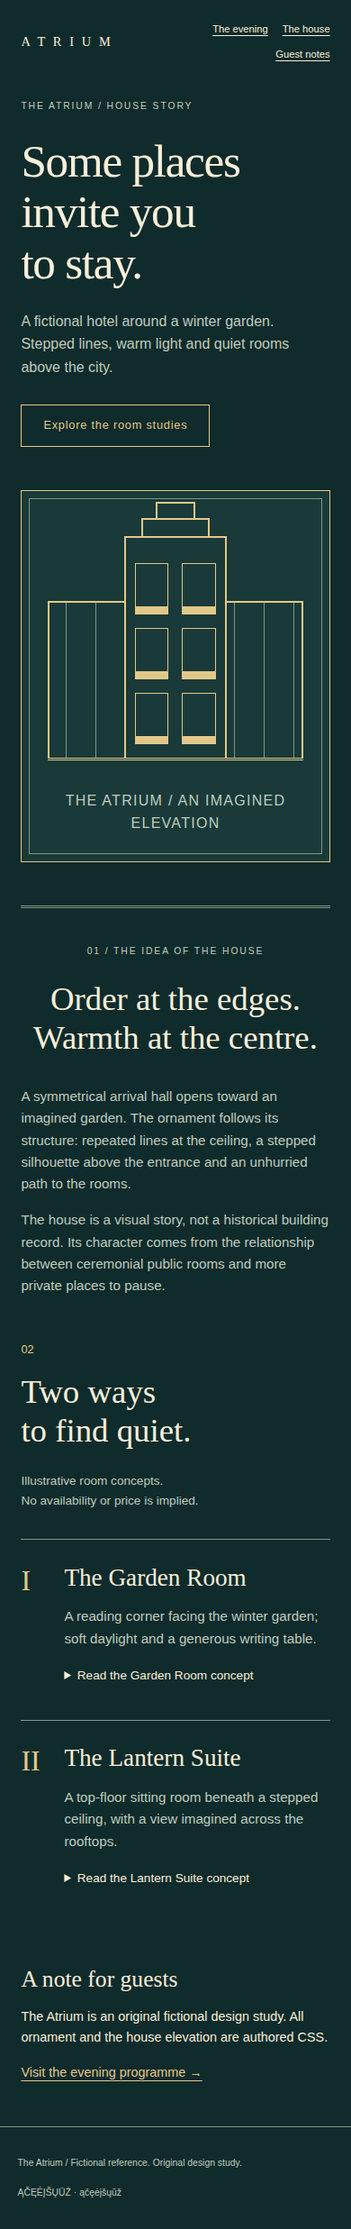
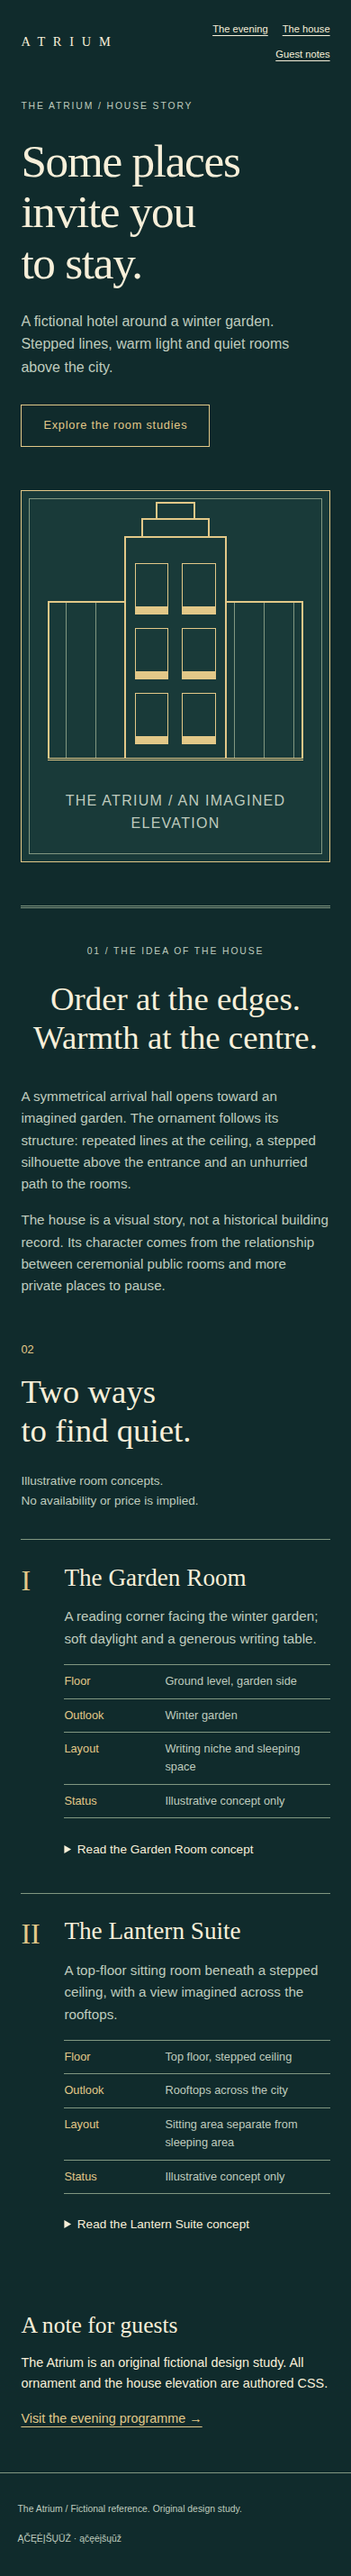
[S47] Pertvarka: Art Deco (#94)
* feat(art-deco): make fan navigation functional and add room facts

- Turn the decorative fan into a three-link nav to the timed movements.
- Give the house note an asymmetric two-column layout.
- Add a fact list (floor, outlook, layout, status) to each room record.
- Update style.md and layouts.json to match.

Claude-Session: https://claude.ai/code/session_01UNVqEgRscSKB9PdVUupPsp

* chore: regenerate canonical previews for art-deco

* docs: add S47 evidence for Art Deco redesign

Records canonical previews run 39825156018, the four-PNG rubric review (12/12) and the limits of this review.

Claude-Session: https://claude.ai/code/session_01UNVqEgRscSKB9PdVUupPsp

---------

diff --git a/styles/art-deco/reference/style.css b/styles/art-deco/reference/style.css
@@ -1,1 +1,1 @@
-*{box-sizing:border-box}html{scroll-behavior:smooth}body{margin:0;background:var(--color-background);color:var(--color-text);font:1rem/1.6 var(--font-body)}a{color:inherit;text-underline-offset:.25em}a:hover{color:var(--color-accent)}button,input,select{font:inherit}button,summary{cursor:pointer}button{color:var(--color-on-accent);background:var(--color-accent);border:1px solid var(--color-border);padding:.6rem 1rem}a,button,summary,input,select{touch-action:manipulation}:focus-visible{outline:3px solid var(--color-focus);outline-offset:4px}.skip{position:absolute;top:0;left:0;transform:translateY(-200%);padding:1rem;background:var(--color-background);z-index:99}.skip:focus{transform:none}h1,h2,h3,p,figure{margin:0}h1,h2,h3{font-family:var(--font-display);line-height:1.1;font-weight:400}img,svg{display:block;max-width:100%;height:auto}header,main,footer{min-width:0}nav{display:flex;gap:1.5rem;flex-wrap:wrap}details p{padding:1rem 0;max-width:65ch}summary{padding:.65rem 0}footer{display:flex;justify-content:space-between;gap:1rem;flex-wrap:wrap;padding:2rem 5vw;font-size:.75rem;color:var(--color-muted);border-top:1px solid var(--color-border)}@media(prefers-reduced-motion:reduce){html{scroll-behavior:auto}*,*::before,*::after{animation:none!important;transition:none!important}}header{max-width:1320px;margin:auto;display:grid;grid-template-columns:1fr 2fr 1fr;align-items:center;gap:2rem;padding:2rem 4vw;font-size:.7rem}.brand{font:1rem/1.2 var(--font-display);letter-spacing:.18em;text-decoration:none}header nav{justify-content:center;gap:2rem}header>span{text-align:right;font-size:.6rem;color:var(--color-muted)}main{max-width:1440px;margin:auto}.eyebrow{font-size:.65rem;letter-spacing:.18em;color:var(--color-muted)}h1{letter-spacing:.04em}h2{font-size:2.7rem;line-height:1.15}.invitation{position:relative;border:1px solid var(--color-accent);outline:1px solid var(--color-border);outline-offset:-12px;margin:1rem 8vw 4rem;padding:2.5rem 2rem;text-align:center}.fan{width:45%;height:95px;border-radius:500px 500px 0 0;background:repeating-conic-gradient(from -90deg at 50% 100%,var(--color-border) 0deg 1deg,transparent 1deg 14deg);border-bottom:1px solid var(--color-accent);margin:0 auto 2rem}.invitation h1{font-size:clamp(3rem,6.2vw,5.8rem);line-height:1.05;margin:1.5rem 0}.invitation-copy{font-family:var(--font-display);font-size:1.25rem;line-height:1.5}.diamond{width:12px;height:12px;border:1px solid var(--color-accent);transform:rotate(45deg);margin:2rem auto}.date{font-size:.75rem;letter-spacing:.1em}.deco-link{display:inline-block;margin:1.8rem 0 1rem;border:1px solid var(--color-accent);padding:.75rem 2.5rem;color:var(--color-accent);font-size:.8rem;letter-spacing:.06em;text-decoration:none}.deco-link:hover{text-decoration:underline}.small-note{font-size:.7rem;color:var(--color-muted);margin:.7rem 0}.programme{display:grid;grid-template-columns:1fr 1.5fr;gap:6vw;margin:0 10vw 5rem}.section-heading>span{display:block;font-size:.8rem;color:var(--color-accent);margin-bottom:1rem}.section-heading h2{font-size:2.6rem}.section-heading>p{font-size:.85rem;color:var(--color-muted);margin-top:1.5rem}.programme ol{list-style:none;padding:0;margin:0}.programme li{display:grid;grid-template-columns:70px 1fr;gap:1rem;border-top:1px solid var(--color-border);padding:1.5rem 0}.programme time{font-size:.8rem;color:var(--color-accent)}.programme h3{font-size:1.8rem;margin-bottom:.8rem}.programme li p{font-size:.95rem;color:var(--color-muted)}.house-note{text-align:center;margin:0 8vw 4rem;padding:3rem;border-top:3px double var(--color-border);border-bottom:3px double var(--color-border)}.house-note h2{font-size:3.3rem;margin:1.5rem 0}.house-note>p:not(.eyebrow){max-width:52ch;margin:auto;color:var(--color-muted)}.house-note a{display:inline-block;margin-top:1.5rem;font-size:.85rem;color:var(--color-accent)}.guest-notes{margin:0 8vw 3rem;display:grid;grid-template-columns:1fr 2fr;gap:3rem}.guest-notes h2{font-size:1.6rem}.guest-notes details,.guest-notes div{font-size:.9rem}.guest-notes a{display:inline-block;margin-top:1rem;color:var(--color-accent)}.house-intro{display:grid;grid-template-columns:1fr 1fr;gap:6vw;margin:2rem 8vw 5rem;align-items:center}.house-intro h1{font-size:clamp(3rem,4.7vw,4.8rem);letter-spacing:-.025em;margin:1.5rem 0}.house-intro>div>p:not(.eyebrow){font-size:1rem;max-width:36ch;color:var(--color-muted)}.house-drawing{border:1px solid var(--color-accent);outline:1px solid var(--color-border);outline-offset:-10px;min-height:500px;padding:2rem;display:flex;align-items:center;justify-content:flex-end;flex-direction:column;background:var(--color-surface)}.building{position:relative;width:100%;height:330px;border-bottom:3px double var(--color-accent)}.tower{position:absolute;bottom:0;left:30%;width:40%;height:92%;border:2px solid var(--color-accent);border-bottom:0;display:grid;grid-template-columns:1fr 1fr;gap:20px;padding:35px 18px 20px;z-index:1;background:var(--color-surface)}.tower::before{content:'';position:absolute;bottom:100%;height:22px;left:15%;width:70%;border:2px solid var(--color-accent);border-bottom:0;box-sizing:border-box}.tower::after{content:'';position:absolute;bottom:calc(100% + 22px);height:18px;left:30%;width:40%;border:2px solid var(--color-accent);border-bottom:0;box-sizing:border-box}.tower span{border:1px solid var(--color-accent);box-shadow:inset 0 -8px 0 var(--color-accent)}.wing{position:absolute;bottom:0;width:34%;height:65%;border:2px solid var(--color-accent);border-bottom:0;background:repeating-linear-gradient(90deg,transparent 0 18px,var(--color-border) 18px 19px,transparent 19px 33px)}.left{left:0}.right{right:0}.house-drawing>p{font-size:.6rem;letter-spacing:.08em;text-align:center;color:var(--color-muted);margin-top:2rem}.history{margin:0 8vw 5rem;text-align:center;border-top:3px double var(--color-border);padding-top:2.5rem}.history h2{font-size:3rem;margin:1.5rem 0 2rem}.history>div{display:grid;grid-template-columns:1fr 1fr;gap:3rem;text-align:left;max-width:900px;margin:auto}.history div p{font-size:.95rem;color:var(--color-muted)}.rooms{margin:0 8vw 4rem;display:grid;grid-template-columns:1fr 1.4fr;gap:1.5rem 5vw}.rooms .section-heading{grid-column:1;grid-row:1/3}.rooms article{display:grid;grid-template-columns:3rem 1fr;gap:1.5rem;border-top:1px solid var(--color-border);padding:1.7rem 0}.room-number{font:2.3rem/1.1 var(--font-display);color:var(--color-accent)}.rooms h3{font-size:2rem;margin-bottom:1rem}.rooms article p{font-size:.95rem;color:var(--color-muted)}.rooms summary{font-size:.85rem;margin-top:.5rem}footer{font-size:.65rem}@media(max-width:1000px){header{grid-template-columns:1fr 2fr}header>span{display:none}.invitation{margin-left:5vw;margin-right:5vw}.programme{margin-left:7vw;margin-right:7vw;gap:3rem}.house-intro{gap:3vw;margin-left:5vw;margin-right:5vw}.house-drawing{padding:1.5rem;min-height:450px}.building{height:290px}.tower{padding:30px 12px 16px;gap:15px}.rooms{gap:3vw}.rooms article{gap:1rem}}@media(max-width:700px){header{display:flex;justify-content:space-between;padding:1.5rem 6vw;gap:1rem}.brand{font-size:.9rem}header nav{font-size:.7rem;gap:.65rem 1rem;max-width:24ch;justify-content:flex-end}.invitation{padding:2rem 1.2rem;margin-bottom:3rem}.fan{width:65%;height:70px;margin-bottom:1.7rem}.invitation h1{font-size:3rem}.invitation-copy{font-size:1.1rem}.date{font-size:.65rem}.deco-link{padding:.75rem 1.5rem}.programme{display:block;margin:0 7vw 3rem}.section-heading h2{font-size:2.3rem}.programme ol{margin-top:2rem}.programme li{grid-template-columns:50px 1fr;gap:.8rem}.programme h3{font-size:1.6rem}.house-note{margin:0 6vw 3rem;padding:2rem .5rem}.house-note h2{font-size:2.5rem}.guest-notes{display:block;margin:0 6vw 3rem}.guest-notes h2{margin-bottom:1rem}.house-intro{display:block;margin:1rem 6vw 3rem}.house-intro h1{font-size:3.2rem}.house-intro>div>p:not(.eyebrow){max-width:none}.house-drawing{margin-top:2rem;min-height:400px;padding:1.8rem}.building{height:270px}.tower{padding:28px 10px 15px;gap:15px}.history{margin:0 6vw 3rem}.history h2{font-size:2.3rem}.history>div{display:block}.history div p+p{margin-top:1rem}.rooms{display:block;margin:0 6vw 3rem}.rooms .section-heading{margin-bottom:2rem}.rooms h3{font-size:1.7rem}.rooms article{grid-template-columns:2rem 1fr}.room-number{font-size:2rem}}
+*{box-sizing:border-box}html{scroll-behavior:smooth}body{margin:0;background:var(--color-background);color:var(--color-text);font:1rem/1.6 var(--font-body)}a{color:inherit;text-underline-offset:.25em}a:hover{color:var(--color-accent)}button,input,select{font:inherit}button,summary{cursor:pointer}button{color:var(--color-on-accent);background:var(--color-accent);border:1px solid var(--color-border);padding:.6rem 1rem}a,button,summary,input,select{touch-action:manipulation}:focus-visible{outline:3px solid var(--color-focus);outline-offset:4px}.skip{position:absolute;top:0;left:0;transform:translateY(-200%);padding:1rem;background:var(--color-background);z-index:99}.skip:focus{transform:none}h1,h2,h3,p,figure{margin:0}h1,h2,h3{font-family:var(--font-display);line-height:1.1;font-weight:400}img,svg{display:block;max-width:100%;height:auto}header,main,footer{min-width:0}nav{display:flex;gap:1.5rem;flex-wrap:wrap}details p{padding:1rem 0;max-width:65ch}summary{padding:.65rem 0}footer{display:flex;justify-content:space-between;gap:1rem;flex-wrap:wrap;padding:2rem 5vw;font-size:.75rem;color:var(--color-muted);border-top:1px solid var(--color-border)}@media(prefers-reduced-motion:reduce){html{scroll-behavior:auto}*,*::before,*::after{animation:none!important;transition:none!important}}header{max-width:1320px;margin:auto;display:grid;grid-template-columns:1fr 2fr 1fr;align-items:center;gap:2rem;padding:2rem 4vw;font-size:.7rem}.brand{font:1rem/1.2 var(--font-display);letter-spacing:.18em;text-decoration:none}header nav{justify-content:center;gap:2rem}header>span{text-align:right;font-size:.6rem;color:var(--color-muted)}main{max-width:1440px;margin:auto}.eyebrow{font-size:.65rem;letter-spacing:.18em;color:var(--color-muted)}h1{letter-spacing:.04em}h2{font-size:2.7rem;line-height:1.15}.invitation{position:relative;border:1px solid var(--color-accent);outline:1px solid var(--color-border);outline-offset:-12px;margin:1rem 8vw 4rem;padding:2.5rem 2rem;text-align:center}.fan{width:45%;height:95px;display:grid;grid-template-columns:repeat(3,1fr);margin:0 auto 2rem;border-bottom:1px solid var(--color-accent);background:repeating-conic-gradient(from -90deg at 50% 100%,var(--color-border) 0deg 1deg,transparent 1deg 14deg);border-radius:500px 500px 0 0}.fan a{display:flex;flex-direction:column;align-items:center;justify-content:flex-end;gap:.2rem;padding-bottom:.6rem;color:var(--color-text);text-decoration:none;font-size:.6rem;letter-spacing:.1em;background:var(--color-background)}.fan a+a{border-left:1px solid var(--color-border)}.fan b{font-weight:400;font-size:.8rem;color:var(--color-accent)}.fan a:hover{color:var(--color-accent)}.invitation h1{font-size:clamp(3rem,6.2vw,5.8rem);line-height:1.05;margin:1.5rem 0}.invitation-copy{font-family:var(--font-display);font-size:1.25rem;line-height:1.5}.diamond{width:12px;height:12px;border:1px solid var(--color-accent);transform:rotate(45deg);margin:2rem auto}.date{font-size:.75rem;letter-spacing:.1em}.deco-link{display:inline-block;margin:1.8rem 0 1rem;border:1px solid var(--color-accent);padding:.75rem 2.5rem;color:var(--color-accent);font-size:.8rem;letter-spacing:.06em;text-decoration:none}.deco-link:hover{text-decoration:underline}.small-note{font-size:.7rem;color:var(--color-muted);margin:.7rem 0}.programme{display:grid;grid-template-columns:1fr 1.5fr;gap:6vw;margin:0 10vw 5rem}.section-heading>span{display:block;font-size:.8rem;color:var(--color-accent);margin-bottom:1rem}.section-heading h2{font-size:2.6rem}.section-heading>p{font-size:.85rem;color:var(--color-muted);margin-top:1.5rem}.programme ol{list-style:none;padding:0;margin:0}.programme li{display:grid;grid-template-columns:70px 1fr;gap:1rem;border-top:1px solid var(--color-border);padding:1.5rem 0}.programme time{font-size:.8rem;color:var(--color-accent)}.programme h3{font-size:1.8rem;margin-bottom:.8rem}.programme li p{font-size:.95rem;color:var(--color-muted)}.house-note{display:grid;grid-template-columns:1fr 1.4fr;gap:1rem 4rem;margin:0 8vw 4rem 18vw;padding:3rem 0;border-top:3px double var(--color-border)}.house-note>.eyebrow{grid-column:1;grid-row:1}.house-note h2{grid-column:1;grid-row:2;font-size:3.3rem;margin:1rem 0}.house-note>p:not(.eyebrow){grid-column:2;grid-row:1/3;align-self:center;max-width:52ch;color:var(--color-muted)}.house-note a{grid-column:2;grid-row:3;justify-self:start;display:inline-block;margin-top:1rem;font-size:.85rem;color:var(--color-accent)}.guest-notes{margin:0 8vw 3rem;display:grid;grid-template-columns:1fr 2fr;gap:3rem}.guest-notes h2{font-size:1.6rem}.guest-notes details,.guest-notes div{font-size:.9rem}.guest-notes a{display:inline-block;margin-top:1rem;color:var(--color-accent)}.house-intro{display:grid;grid-template-columns:1fr 1fr;gap:6vw;margin:2rem 8vw 5rem;align-items:center}.house-intro h1{font-size:clamp(3rem,4.7vw,4.8rem);letter-spacing:-.025em;margin:1.5rem 0}.house-intro>div>p:not(.eyebrow){font-size:1rem;max-width:36ch;color:var(--color-muted)}.house-drawing{border:1px solid var(--color-accent);outline:1px solid var(--color-border);outline-offset:-10px;min-height:500px;padding:2rem;display:flex;align-items:center;justify-content:flex-end;flex-direction:column;background:var(--color-surface)}.building{position:relative;width:100%;height:330px;border-bottom:3px double var(--color-accent)}.tower{position:absolute;bottom:0;left:30%;width:40%;height:92%;border:2px solid var(--color-accent);border-bottom:0;display:grid;grid-template-columns:1fr 1fr;gap:20px;padding:35px 18px 20px;z-index:1;background:var(--color-surface)}.tower::before{content:'';position:absolute;bottom:100%;height:22px;left:15%;width:70%;border:2px solid var(--color-accent);border-bottom:0;box-sizing:border-box}.tower::after{content:'';position:absolute;bottom:calc(100% + 22px);height:18px;left:30%;width:40%;border:2px solid var(--color-accent);border-bottom:0;box-sizing:border-box}.tower span{border:1px solid var(--color-accent);box-shadow:inset 0 -8px 0 var(--color-accent)}.wing{position:absolute;bottom:0;width:34%;height:65%;border:2px solid var(--color-accent);border-bottom:0;background:repeating-linear-gradient(90deg,transparent 0 18px,var(--color-border) 18px 19px,transparent 19px 33px)}.left{left:0}.right{right:0}.house-drawing>p{font-size:.6rem;letter-spacing:.08em;text-align:center;color:var(--color-muted);margin-top:2rem}.history{margin:0 8vw 5rem;text-align:center;border-top:3px double var(--color-border);padding-top:2.5rem}.history h2{font-size:3rem;margin:1.5rem 0 2rem}.history>div{display:grid;grid-template-columns:1fr 1fr;gap:3rem;text-align:left;max-width:900px;margin:auto}.history div p{font-size:.95rem;color:var(--color-muted)}.rooms{margin:0 8vw 4rem;display:grid;grid-template-columns:1fr 1.4fr;gap:1.5rem 5vw}.rooms .section-heading{grid-column:1;grid-row:1/3}.rooms article{display:grid;grid-template-columns:3rem 1fr;gap:1.5rem;border-top:1px solid var(--color-border);padding:1.7rem 0}.room-number{font:2.3rem/1.1 var(--font-display);color:var(--color-accent)}.rooms h3{font-size:2rem;margin-bottom:1rem}.rooms article p{font-size:.95rem;color:var(--color-muted)}.rooms summary{font-size:.85rem;margin-top:.5rem}.room-facts{margin-top:1rem;font-size:.8rem;border-top:1px solid var(--color-border)}.room-facts div{display:grid;grid-template-columns:6rem 1fr;gap:1rem;padding:.5rem 0;border-bottom:1px solid var(--color-border)}.room-facts dt{color:var(--color-accent)}.room-facts dd{margin:0;color:var(--color-muted)}footer{font-size:.65rem}@media(max-width:1000px){header{grid-template-columns:1fr 2fr}header>span{display:none}.invitation{margin-left:5vw;margin-right:5vw}.programme{margin-left:7vw;margin-right:7vw;gap:3rem}.house-intro{gap:3vw;margin-left:5vw;margin-right:5vw}.house-drawing{padding:1.5rem;min-height:450px}.building{height:290px}.tower{padding:30px 12px 16px;gap:15px}.rooms{gap:3vw}.rooms article{gap:1rem}}@media(max-width:700px){header{display:flex;justify-content:space-between;padding:1.5rem 6vw;gap:1rem}.brand{font-size:.9rem}header nav{font-size:.7rem;gap:.65rem 1rem;max-width:24ch;justify-content:flex-end}.invitation{padding:2rem 1.2rem;margin-bottom:3rem}.fan{width:65%;height:70px;margin-bottom:1.7rem}.invitation h1{font-size:3rem}.invitation-copy{font-size:1.1rem}.date{font-size:.65rem}.deco-link{padding:.75rem 1.5rem}.programme{display:block;margin:0 7vw 3rem}.section-heading h2{font-size:2.3rem}.programme ol{margin-top:2rem}.programme li{grid-template-columns:50px 1fr;gap:.8rem}.programme h3{font-size:1.6rem}.house-note{display:block;margin:0 6vw 3rem;padding:2rem 0}.house-note h2{font-size:2.5rem}.guest-notes{display:block;margin:0 6vw 3rem}.guest-notes h2{margin-bottom:1rem}.house-intro{display:block;margin:1rem 6vw 3rem}.house-intro h1{font-size:3.2rem}.house-intro>div>p:not(.eyebrow){max-width:none}.house-drawing{margin-top:2rem;min-height:400px;padding:1.8rem}.building{height:270px}.tower{padding:28px 10px 15px;gap:15px}.history{margin:0 6vw 3rem}.history h2{font-size:2.3rem}.history>div{display:block}.history div p+p{margin-top:1rem}.rooms{display:block;margin:0 6vw 3rem}.rooms .section-heading{margin-bottom:2rem}.rooms h3{font-size:1.7rem}.rooms article{grid-template-columns:2rem 1fr}.room-number{font-size:2rem}}

diff --git a/styles/art-deco/reference/alternate.html b/styles/art-deco/reference/alternate.html
@@ -1,1 +1,1 @@
-<!doctype html><html lang="en"><head><meta charset="utf-8"><meta name="viewport" content="width=device-width, initial-scale=1"><title>Art Deco — Hotel house story and room concepts</title><link rel="stylesheet" href="tokens.css"><link rel="stylesheet" href="style.css"></head><body class="b"><a class="skip" href="#main">Skip to content</a><header><a class="brand" href="index.html">A T R I U M</a><nav aria-label="Main"><a href="index.html#programme">The evening</a><a href="alternate.html">The house</a><a href="#notes">Guest notes</a></nav><span>AN ORIGINAL FICTIONAL VENUE</span></header><main id="main"><section class="house-intro"><div><p class="eyebrow">THE ATRIUM / HOUSE STORY</p><h1>Some places<br>invite you<br>to stay.</h1><p>A fictional hotel around a winter garden. Stepped lines, warm light and quiet rooms above the city.</p><a class="deco-link" href="#rooms">Explore the room studies</a></div><div class="house-drawing" role="img" aria-label="Original stylized Art Deco hotel elevation with a stepped central tower and repeated illuminated windows"><div class="building"><i class="wing left"></i><i class="wing right"></i><div class="tower"><span></span><span></span><span></span><span></span><span></span><span></span></div></div><p>THE ATRIUM / AN IMAGINED ELEVATION</p></div></section><section class="history"><p class="eyebrow">01 / THE IDEA OF THE HOUSE</p><h2>Order at the edges.<br>Warmth at the centre.</h2><div><p>A symmetrical arrival hall opens toward an imagined garden. The ornament follows its structure: repeated lines at the ceiling, a stepped silhouette above the entrance and an unhurried path to the rooms.</p><p>The house is a visual story, not a historical building record. Its character comes from the relationship between ceremonial public rooms and more private places to pause.</p></div></section><section class="rooms" id="rooms"><div class="section-heading"><span>02</span><h2>Two ways<br>to find quiet.</h2><p>Illustrative room concepts.<br>No availability or price is implied.</p></div><article><span class="room-number">I</span><div><h3>The Garden Room</h3><p>A reading corner facing the winter garden; soft daylight and a generous writing table.</p><details><summary>Read the Garden Room concept</summary><p>The imagined room pairs a narrow writing niche with a broader sleeping space. Repeated vertical lines bring the public architecture into a quieter scale.</p></details></div></article><article><span class="room-number">II</span><div><h3>The Lantern Suite</h3><p>A top-floor sitting room beneath a stepped ceiling, with a view imagined across the rooftops.</p><details><summary>Read the Lantern Suite concept</summary><p>A separate sitting area creates a slow transition from arrival to rest. The fictional concept includes no real capacity, rate or booking offer.</p></details></div></article></section><section class="guest-notes" id="notes"><h2>A note for guests</h2><div><p>The Atrium is an original fictional design study. All ornament and the house elevation are authored CSS.</p><a href="index.html#programme">Visit the evening programme →</a></div></section></main><footer><p>The Atrium / Fictional reference. Original design study.</p><p lang="lt">ĄČĘĖĮŠŲŪŽ · ąčęėįšųūž</p></footer></body></html>
+<!doctype html><html lang="en"><head><meta charset="utf-8"><meta name="viewport" content="width=device-width, initial-scale=1"><title>Art Deco — Hotel house story and room concepts</title><link rel="stylesheet" href="tokens.css"><link rel="stylesheet" href="style.css"></head><body class="b"><a class="skip" href="#main">Skip to content</a><header><a class="brand" href="index.html">A T R I U M</a><nav aria-label="Main"><a href="index.html#programme">The evening</a><a href="alternate.html">The house</a><a href="#notes">Guest notes</a></nav><span>AN ORIGINAL FICTIONAL VENUE</span></header><main id="main"><section class="house-intro"><div><p class="eyebrow">THE ATRIUM / HOUSE STORY</p><h1>Some places<br>invite you<br>to stay.</h1><p>A fictional hotel around a winter garden. Stepped lines, warm light and quiet rooms above the city.</p><a class="deco-link" href="#rooms">Explore the room studies</a></div><div class="house-drawing" role="img" aria-label="Original stylized Art Deco hotel elevation with a stepped central tower and repeated illuminated windows"><div class="building"><i class="wing left"></i><i class="wing right"></i><div class="tower"><span></span><span></span><span></span><span></span><span></span><span></span></div></div><p>THE ATRIUM / AN IMAGINED ELEVATION</p></div></section><section class="history"><p class="eyebrow">01 / THE IDEA OF THE HOUSE</p><h2>Order at the edges.<br>Warmth at the centre.</h2><div><p>A symmetrical arrival hall opens toward an imagined garden. The ornament follows its structure: repeated lines at the ceiling, a stepped silhouette above the entrance and an unhurried path to the rooms.</p><p>The house is a visual story, not a historical building record. Its character comes from the relationship between ceremonial public rooms and more private places to pause.</p></div></section><section class="rooms" id="rooms"><div class="section-heading"><span>02</span><h2>Two ways<br>to find quiet.</h2><p>Illustrative room concepts.<br>No availability or price is implied.</p></div><article><span class="room-number">I</span><div><h3>The Garden Room</h3><p>A reading corner facing the winter garden; soft daylight and a generous writing table.</p><dl class="room-facts"><div><dt>Floor</dt><dd>Ground level, garden side</dd></div><div><dt>Outlook</dt><dd>Winter garden</dd></div><div><dt>Layout</dt><dd>Writing niche and sleeping space</dd></div><div><dt>Status</dt><dd>Illustrative concept only</dd></div></dl><details><summary>Read the Garden Room concept</summary><p>The imagined room pairs a narrow writing niche with a broader sleeping space. Repeated vertical lines bring the public architecture into a quieter scale.</p></details></div></article><article><span class="room-number">II</span><div><h3>The Lantern Suite</h3><p>A top-floor sitting room beneath a stepped ceiling, with a view imagined across the rooftops.</p><dl class="room-facts"><div><dt>Floor</dt><dd>Top floor, stepped ceiling</dd></div><div><dt>Outlook</dt><dd>Rooftops across the city</dd></div><div><dt>Layout</dt><dd>Sitting area separate from sleeping area</dd></div><div><dt>Status</dt><dd>Illustrative concept only</dd></div></dl><details><summary>Read the Lantern Suite concept</summary><p>A separate sitting area creates a slow transition from arrival to rest. The fictional concept includes no real capacity, rate or booking offer.</p></details></div></article></section><section class="guest-notes" id="notes"><h2>A note for guests</h2><div><p>The Atrium is an original fictional design study. All ornament and the house elevation are authored CSS.</p><a href="index.html#programme">Visit the evening programme →</a></div></section></main><footer><p>The Atrium / Fictional reference. Original design study.</p><p lang="lt">ĄČĘĖĮŠŲŪŽ · ąčęėįšųūž</p></footer></body></html>

diff --git a/styles/art-deco/reference/index.html b/styles/art-deco/reference/index.html
@@ -1,1 +1,1 @@
-<!doctype html><html lang="en"><head><meta charset="utf-8"><meta name="viewport" content="width=device-width, initial-scale=1"><title>Art Deco — Cultural evening invitation</title><link rel="stylesheet" href="tokens.css"><link rel="stylesheet" href="style.css"></head><body class="a"><a class="skip" href="#main">Skip to content</a><header><a class="brand" href="index.html">A T R I U M</a><nav aria-label="Main"><a href="index.html#programme">The evening</a><a href="alternate.html">The house</a><a href="#notes">Guest notes</a></nav><span>AN ORIGINAL FICTIONAL VENUE</span></header><main id="main"><section class="invitation"><div class="fan" aria-hidden="true"></div><p class="eyebrow">THE ATRIUM PRESENTS</p><h1>THE<br>VELVET<br>HOUR</h1><p class="invitation-copy">An evening of piano,<br>conversation and a slower kind of time.</p><div class="diamond" aria-hidden="true"></div><p class="date">14 NOVEMBER 2026 · 19:00</p><a class="deco-link" href="#programme">Discover the evening</a><p class="small-note">Demonstration programme · No tickets are sold</p></section><section class="programme" id="programme"><div class="section-heading"><span>01</span><h2>The evening,<br>in three movements.</h2><p>Arrive without hurry.<br>Stay for the conversation.</p></div><ol><li><time datetime="18:30">18:30</time><div><h3>The doors open</h3><p>Gather in the imagined winter garden, beneath a stepped glass canopy and the last light of the day.</p></div></li><li><time datetime="19:00">19:00</time><div><h3>At the piano</h3><p>A fictional chamber programme of quiet themes, held notes and room for a little silence between them.</p></div></li><li><time datetime="20:15">20:15</time><div><h3>After the music</h3><p>Small tables, long conversations and a final look at the illuminated hall.</p></div></li></ol></section><section class="house-note"><p class="eyebrow">BEYOND THE EVENING</p><h2>A house with<br>room for stories.</h2><p>Follow the line of the staircase. Find the quiet room above the garden. The Atrium is an imagined place shaped around a generous welcome.</p><a href="alternate.html">Read the house story →</a></section><section class="guest-notes" id="notes"><h2>Before the evening</h2><details><summary>Programme and venue note</summary><p>This venue, evening and programme are fictional. The reference provides working programme and house-story links; there is no live event, reservation or ticket service.</p></details></section></main><footer><p>The Atrium / Fictional reference. Original design study.</p><p lang="lt">ĄČĘĖĮŠŲŪŽ · ąčęėįšųūž</p></footer></body></html>
+<!doctype html><html lang="en"><head><meta charset="utf-8"><meta name="viewport" content="width=device-width, initial-scale=1"><title>Art Deco — Cultural evening invitation</title><link rel="stylesheet" href="tokens.css"><link rel="stylesheet" href="style.css"></head><body class="a"><a class="skip" href="#main">Skip to content</a><header><a class="brand" href="index.html">A T R I U M</a><nav aria-label="Main"><a href="index.html#programme">The evening</a><a href="alternate.html">The house</a><a href="#notes">Guest notes</a></nav><span>AN ORIGINAL FICTIONAL VENUE</span></header><main id="main"><section class="invitation"><nav class="fan" aria-label="Evening movements"><a href="#m1"><b>18:30</b><span>Doors</span></a><a href="#m2"><b>19:00</b><span>Piano</span></a><a href="#m3"><b>20:15</b><span>After</span></a></nav><p class="eyebrow">THE ATRIUM PRESENTS</p><h1>THE<br>VELVET<br>HOUR</h1><p class="invitation-copy">An evening of piano,<br>conversation and a slower kind of time.</p><div class="diamond" aria-hidden="true"></div><p class="date">14 NOVEMBER 2026 · 19:00</p><a class="deco-link" href="#programme">Discover the evening</a><p class="small-note">Demonstration programme · No tickets are sold</p></section><section class="programme" id="programme"><div class="section-heading"><span>01</span><h2>The evening,<br>in three movements.</h2><p>Arrive without hurry.<br>Stay for the conversation.</p></div><ol><li id="m1"><time datetime="18:30">18:30</time><div><h3>The doors open</h3><p>Gather in the imagined winter garden, beneath a stepped glass canopy and the last light of the day.</p></div></li><li id="m2"><time datetime="19:00">19:00</time><div><h3>At the piano</h3><p>A fictional chamber programme of quiet themes, held notes and room for a little silence between them.</p></div></li><li id="m3"><time datetime="20:15">20:15</time><div><h3>After the music</h3><p>Small tables, long conversations and a final look at the illuminated hall.</p></div></li></ol></section><section class="house-note"><p class="eyebrow">BEYOND THE EVENING</p><h2>A house with<br>room for stories.</h2><p>Follow the line of the staircase. Find the quiet room above the garden. The Atrium is an imagined place shaped around a generous welcome.</p><a href="alternate.html">Read the house story →</a></section><section class="guest-notes" id="notes"><h2>Before the evening</h2><details><summary>Programme and venue note</summary><p>This venue, evening and programme are fictional. The reference provides working programme and house-story links; there is no live event, reservation or ticket service.</p></details></section></main><footer><p>The Atrium / Fictional reference. Original design study.</p><p lang="lt">ĄČĘĖĮŠŲŪŽ · ąčęėįšųūž</p></footer></body></html>

diff --git a/docs/evidence/S47.md b/docs/evidence/S47.md
@@ -1,0 +1,69 @@
+# S47 — įrodymai: Art Deco (pertvarka)
+
+Autorius: Claude Haiku 5.5 / session-S47. Šaka `task/s47-art-deco`. Peržiūrėta kanoninio PNG commit'as `669c3d1bbfd0fdc4c4c3b6e1cc011b1edef6fc20`.
+
+## Kas pakeista
+
+- A variantas (`reference/index.html`, `reference/style.css`): dekoratyvus vėrinys (`.fan`) dabar yra navigacija su trimis nuorodomis į programos judesius `18:30 Doors`, `19:00 Piano`, `20:15 After`. Programos elementai gavo `id` (`m1`, `m2`, `m3`), todėl nuorodos veda į konkretų laiką, o ne į dekoraciją be veiksmo.
+- A variantas: pastabų blokas („A house note“) perkeltas į asimetrinį dviejų stulpelių išdėstymą – antraštė kairėje, tekstas dešinėje, nuoroda po tekstu. Likusi dalis lieka simetriška, todėl asimetrija yra vienoje vietoje, o ne visur.
+- B variantas (`reference/alternate.html`): kiekvienas kambario įrašas turi faktų sąrašą (`dl.room-facts`): aukštas, vaizdas, planas, statusas. Statusas aiškiai sako „Illustrative concept only“, todėl niekas neatrodo kaip tikras kambarys ar galimybė rezervuoti.
+- `style.md` ir `layouts.json` atnaujinti: vėrinys yra navigacija, pastabų blokas asimetriškas, kambariuose yra faktų sąrašas. „Avoid“ sąrašas pakeistas: dekoracija be nuorodos ir tie patys pilno pločio dvigubi rėmeliai kiekvienoje skiltyje dabar yra draudžiami.
+- Nauji rasteriniai failai ir trečiųjų šalių asset'ai nepridėti; visi vaizdai – CSS formos ir inline SVG.
+
+## Komandos ir rezultatai
+
+| Komanda | Rezultatas |
+|---|---|
+| `npm run validate` | PASS (lokaliai, prieš vartotojo nurodymą nebetikrinti lokaliai) |
+| `npm run build -- --style art-deco` | PASS (lokaliai, 39 stiliai, 39 ready) |
+| `node --test tests/*.test.mjs` | 87/87 PASS (lokaliai) |
+| Kanoninis workflow `previews.yml` (ref `main`, branch `task/s47-art-deco`, style `art-deco`), run `39825156018` | success; bot'as pateikė commit'ą `669c3d1` su keturiais PNG ir `catalog/previews-manifest.json` atnaujinimu. Tame pačiame žingsnyje vykdomas `npm run check -- --style "$STYLE"` |
+| `npm run test:browser -- --style art-deco` | Nepaleista lokaliai; naršyklės vartai – tik kanoniniame host'e, jei workflow tai įtraukia |
+
+## Keturių kanoninių PNG peržiūra
+
+Peržiūrėta `preview.png`, `preview-mobile.png`, `preview-alt.png`, `preview-alt-mobile.png` iš commit'o `669c3d1`.
+
+- A desktop: centruotas kvietimas su trimis programos laikais vėrinio viršuje; programa kairėje su antrašte ir programos sąrašu dešinėje; po to asimetrinis „A house with room for stories“ blokas. Vėrinys pastebimas ir matomas kaip navigacija.
+- A mobile: vėrinys telefone išlieka su trimis laikais, viršutinės nuorodos išdėstytos į dvi eilutes; pastabų blokas krenta į vieną stulpelį, bet išlieka skiriamas dvigubu rėmeliu.
+- B desktop: elevacijos iliustracija kairėje, du kambariai su I/II romėniniais skaitmenimis ir faktų lentelėmis; „Illustrative room concepts“ pastaba aiški.
+- B mobile: kambariai eina vertikaliai, faktų lentelės lieka skaitomos; eilutės išsiskiria, be horizontalaus slinkimo.
+
+## Rubrika (`core/quality-rubric.md`)
+
+Artimiausias kaimynas pagal katalogo panašumą: `bauhaus-geometric`. Šios sesijos metu jo PNG šalia nebuvo atidarytas, todėl palyginimas paremtas tik šios peržiūros vaizdais ir katalogo aprašymu – tai nurodyta apribojimuose.
+
+| Kriterijus | Balas | Priežastis |
+|---|---|---|
+| Atpažinimas | 2 | Pakopinis (stepped) viršutinis elementas, vėrinio spinduliai, dvigubos linijos, deimantas, auksinis akcentas ant tamsiai žalio fono – visi matomi A ir B. |
+| Skirtumas nuo kaimyno | 2 | Bauhaus-geometric paprastai naudoja pirminius geometrinius plotus ir ne simetrinę ceremoniją. Art Deco čia yra centruotas, ornamentuotas kvietimas su tamsiu fonu ir auksinėmis linijomis, todėl vizualiai skirtingas. Lyginta tik pagal šias peržiūras. |
+| A/B skirtumas | 2 | A – ceremoninis kvietimas su programa ir vienu asimetriniu pastabų bloku; B – namo istorija su elevacija, kambarių faktų lentelėmis ir pagrindiniu „Illustrative“ statusu. Skirtinga kompozicija ir turinio užduotis, bendras parašas. |
+| Hierarchija | 2 | Antraštė, eyebrow, programos laikai, kambarių romėniniai skaitmenys ir faktų etiketės turi aiškius vaidmenis. |
+| Mobile | 2 | A ir B reflow sąmoningai; vėrinio nuorodos telefone išlieka paspaudžiamos; be horizontalaus slinkimo peržiūroje. |
+| Adaptability | 2 | `style.md` nurodo, kaip pakeisti vėrinio spindulius, kaip išlaikyti dvigubas linijas ir kaip pritaikyti faktų sąrašą kitam turiniui. |
+
+**Iš viso 12/12**, be nulio; atpažinimas ir skirtumas nuo kaimyno – 2.
+
+Vertinimą atliko šios užduoties vykdytojas, ne nepriklausomas peržiūrėtojas.
+
+## Invariantai (3–5)
+
+1. Kiekviena dekoracija, kuri atrodo kaip navigacija, turi būti nuoroda į turinį (vėrinys → programos judesiai).
+2. Simetrija yra ceremonijos dalis; asimetrija naudojama tik vienoje vietoje per puslapį.
+3. Dvigubos linijos ir auksinis akcentas naudojami kaip pasikartojanti sistema, ne kaip atsitiktinis ornamentas.
+4. Kambariai ir istorija visada pažymėti kaip iliustraciniai; nėra rezervacijos, kainos ar tikro laiko.
+
+## Anti-pattern'ai (tiksliai 3)
+
+1. Dekoratyvus vėrinys, kuris nieko neatidaro.
+2. Tie patys du pilno pločio dvigubi rėmeliai kiekvienoje skiltyje.
+3. Kambarių kortelės be faktų, kurios atrodo kaip tikri pasiūlymai.
+
+## Apribojimai
+
+- Lokalūs `validate`, `build` ir `test` buvo paleisti prieš vartotojo nurodymą nebetikrinti lokaliai; rezultatai PASS, bet galutinis įrodymas – kanoninis workflow.
+- `npm run check` ir `npm run test:browser` lokaliai nepaleisti; `check` rezultatas – kanoninio workflow žingsnyje `39825156018`.
+- Neapžiūrėtas bauhaus-geometric PNG šioje sesijoje; palyginimas paremtas katalogo aprašymu.
+- Vėrinio spinduliai maži; desktop navigacija matoma, bet nedidelė. Jei reikės didesnio taikinio, tai būtų kitas pakeitimas.
+- Duomenys, kambariai ir laikai iliustraciniai; tai nurodyta puslapyje.
+- Automatiniai patikrinimai nėra pilnas WCAG patikrinimas.

diff --git a/styles/art-deco/style.md b/styles/art-deco/style.md
@@ -35,11 +35,11 @@ Semantic tokens define the page, supporting surface, readable foreground, second
 
 ## Layout A
 
-A balanced header opens onto a centred invitation bounded by two architectural rules. A fan crown precedes the title; a diamond separates the invitation from its date and programme link. The next section changes from symmetry to a numbered introduction beside three timed programme movements. A short house note creates a deliberate pause before guest information closes the page. The invitation remains the visual centre without hiding the route to its actual schedule.
+A balanced header opens onto a centred invitation bounded by two architectural rules. A fan crown precedes the title and doubles as navigation to the three timed movements; a diamond separates the invitation from its date and programme link. The next section changes from symmetry to a numbered introduction beside three timed programme movements. A short house note breaks the symmetry: its heading sits left and its paragraph sits right, creating a deliberate pause before guest information closes the page. The invitation remains the visual centre without hiding the route to its actual schedule.
 
 ## Layout B
 
-The house story begins in a two-column arrival composition: an expressive serif statement beside an original stepped elevation. A broad architectural idea section follows, pairing a central statement with two readable paragraphs. Two room records use Roman numerals and native concept disclosures rather than a booking grid. Guest notes return to the evening programme. This narrative and room-index rhythm differs from A’s centred event invitation and timed programme.
+The house story begins in a two-column arrival composition: an expressive serif statement beside an original stepped elevation. A broad architectural idea section follows, pairing a central statement with two readable paragraphs. Two room records use Roman numerals, a fact list (floor, outlook, layout, status) and native concept disclosures rather than a booking grid. Guest notes return to the evening programme. This narrative and room-index rhythm differs from A’s centred event invitation and timed programme.
 
 ## Imagery
 
@@ -67,7 +67,7 @@ Replace the imagined programme, venue and room names with verified information. 
 
 ## Avoid
 
-1. Do not scatter gold decoration without a repeated axis or stepped rule system. 2. Do not shrink practical labels into illegible ornament or place them across busy motifs. 3. Do not imply historical authenticity, booking availability or real tickets for fictional content.
+1. Do not keep a decorative frame or fan that links nowhere; each ornament should lead to content. 2. Do not repeat the same two full-width double-rule frames in every section. 3. Do not imply historical authenticity, booking availability or real tickets for fictional content.
 
 ## Closest styles
 
